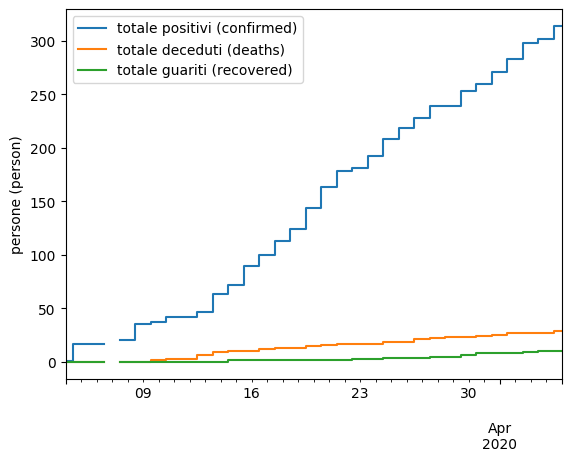
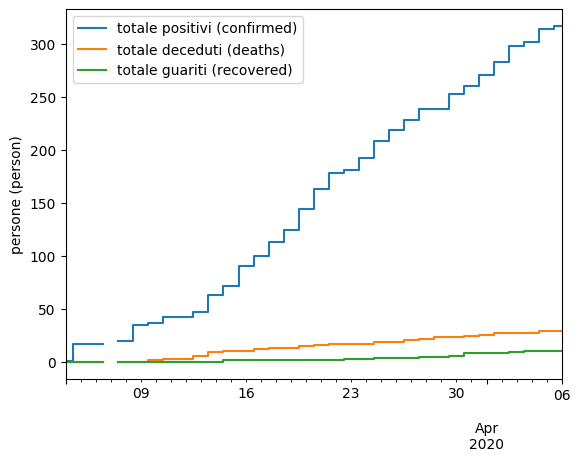
Update with data from April the 6th

diff --git a/COVID-19/bollettino.html b/COVID-19/bollettino.html
@@ -19,10 +19,10 @@
     <link href="https://www.ausl.imola.bo.it/flex/TemplatesUSR/assets/font-awesome-4.7.0/css/font-awesome.min.css" rel="stylesheet">
     <link href="https://www.ausl.imola.bo.it/flex/TemplatesUSR/assets/fancybox-master/dist/jquery.fancybox.min.css" rel="stylesheet">
 
-    <link rel='stylesheet' type='text/css' media='screen' href='https://www.ausl.imola.bo.it/flex/cm/pages/ServeCSS.php/L/IT/N/normalize.css/M/-/BF/-/BV/-1?uyjvTb' />
-	<link rel='stylesheet' type='text/css' media='screen' href='https://www.ausl.imola.bo.it/flex/cm/pages/ServeCSS.php/L/IT/N/flex.css/M/-/BF/-/BV/-1?uyjvTb' />
+    <link rel='stylesheet' type='text/css' media='screen' href='https://www.ausl.imola.bo.it/flex/cm/pages/ServeCSS.php/L/IT/N/normalize.css/M/-/BF/-/BV/-1?mHFvTb' />
+	<link rel='stylesheet' type='text/css' media='screen' href='https://www.ausl.imola.bo.it/flex/cm/pages/ServeCSS.php/L/IT/N/flex.css/M/-/BF/-/BV/-1?lHFvTb' />
     <link href='https://www.ausl.imola.bo.it/flex/TemplatesUSR/assets/css/wheelmenu.css' rel='stylesheet'>
-    <link rel="stylesheet" type="text/css" media="print" href='https://www.ausl.imola.bo.it/flex/cm/pages/ServeCSS.php/L/IT/N/print.css/M/-/BF/-/BV/-1?wlvuTb' />
+    <link rel="stylesheet" type="text/css" media="print" href='https://www.ausl.imola.bo.it/flex/cm/pages/ServeCSS.php/L/IT/N/print.css/M/-/BF/-/BV/-1?hDyvTb' />
 
 	<!-- HTML5 Shim and Respond.js IE8 support of HTML5 elements and media queries -->
 	<!-- WARNING: Respond.js doesn't work if you view the page via file:// -->
@@ -75,13 +75,13 @@
 <meta property="og:type" content="article" />
 <meta property="og:url" content="https://www.ausl.imola.bo.it/flex/cm/pages/ServeBLOB.php/L/IT/IDPagina/10010" />
 <meta property="og:site_name" content="www.ausl.imola.bo.it" />
-<meta property="og:description" content="Nessun decesso e solo 4 nuovi casi positivi. In calo anche i ricoveri ospedalieri. Raggiungono quasi il centinaio le persone in cura al domicilio.&amp;nbsp;" />
+<meta property="og:description" content="Tre nuovi casi positivi al Covid-19. Il totale sale a 317. Nessun decesso nella giornata di oggi." />
 <meta property="og:image" content="https://www.ausl.imola.bo.it/flex/images/1/f/b/D.0f26852e5331bd3d350b/aggiornamenti_locali.jpg" />
 <meta name="twitter:card" content="summary" />
 <meta name="twitter:site" content="www.ausl.imola.bo.it" />
 <meta name="twitter:creator" content="FlexCMP" />
 <meta name="twitter:title" content="AGGIORNAMENTI LOCALI COVID" />
-<meta name="twitter:description" content="Nessun decesso e solo 4 nuovi casi positivi. In calo anche i ricoveri ospedalieri. Raggiungono quasi il centinaio le persone in cura al domicilio.&amp;nbsp;" />
+<meta name="twitter:description" content="Tre nuovi casi positivi al Covid-19. Il totale sale a 317. Nessun decesso nella giornata di oggi." />
 <meta name="twitter:image:src" content="https://www.ausl.imola.bo.it/flex/images/1/f/b/D.0f26852e5331bd3d350b/aggiornamenti_locali.jpg" />
 
 </head>
@@ -365,7 +365,7 @@
 </li>
 <li><a href='https://www.ausl.imola.bo.it/Vaccinazioni-Infanzia' title='' ><span>Vaccinazioni Infanzia</span></a>
 </li>
-<li><a href='https://www.ausl.imola.bo.it/flex/cm/pages/ServeBLOB.php/L/IT/IDPagina/7452' title='' ><span>#diciamoNo alla Violenza contro le donne</span></a>
+<li><a href='https://www.ausl.imola.bo.it/flex/cm/pages/ServeBLOB.php/L/IT/IDPagina/7452' title='' ><span>#diciamoNo alla Violenza contro le donne - CENTRI ANTIVIOLENZA restano APERTI</span></a>
 </li>
 </ul>
 
@@ -788,7 +788,7 @@
 	<li><a href="https://www.ausl.imola.bo.it/flex/cm/pages/ServeBLOB.php/L/IT/IDPagina/5/YY/2020">2020</a> <span class="divider">/</span></li>
 	
 	
-	<li><a href="https://www.ausl.imola.bo.it/flex/cm/pages/ServeBLOB.php/L/IT/IDPagina/5/YY/2020/MM/3">Marzo</a> <span class="divider">/</span></li>
+	<li><a href="https://www.ausl.imola.bo.it/flex/cm/pages/ServeBLOB.php/L/IT/IDPagina/5/YY/2020/MM/4">Aprile</a> <span class="divider">/</span></li>
 	
 	
 	<li class="active">AGGIORNAMENTI LOCALI COVID</li>
@@ -877,16 +877,18 @@
 </div>
                             
 <!-- Begin BLOB Content -->
-<div class='BLOBAlignLeft'><a href='https://www.ausl.imola.bo.it/flex/cm/pages/ServeBLOB.php/L/IT/IDPagina/9991' class='viewLink viewLinkIMG'  title='A QUESTO LINK AGGIORNAMENTI QUOTIDIANI SULLA SITUAZIONE IN EMILIA ROMAGNA'><img id='img-1' src='https://www.ausl.imola.bo.it/flex/tmp/imgResized/T-5a7db39de4ec63b30baec261aaaa4dcc-90x90.png'  width="90" height="90" alt='' />A QUESTO LINK AGGIORNAMENTI QUOTIDIANI SULLA SITUAZIONE IN EMILIA ROMAGNA</a><span class='BLOBHidden'>.</span></div><div><hr class='viewHR BLOBAlignLeft' /></div><h1 class="viewTitolo">AGGIORNAMENTI QUOTIDIANI SULL&#039;EPIDEMIA DI COVID-19 NEL TERRITORIO DEL CIRCONDARIO IMOLESE</h1><h2 class="viewSottotitolo">5 aprile </h2>
-<div class='viewPar BLOBAlignJustify'><p >Imola – Sono 12 più di&nbsp;<span class='Object'>ieri</span>&nbsp;le persone risultate positive al Coronavirus:&nbsp;6 residenti a Medicina, 3 ad Imola, 1 a Castel San Pietro Terme, 1 Mordano e 1 fuori territorio<br />Purtroppo&nbsp;<span class='Object'>oggi</span>&nbsp;sono due le famiglie che subiscono un lutto a Medicina. Sono deceduti un uomo e una donna rispettivamente di 77 e 75 anni.&nbsp;Salgono quindi a 314 i casi positivi refertati nel Circondario Imolese (compresi 8 guariti con doppio tampone negativo, 2 guariti clinicamente e 29 decessi così suddivisi: 23 a Medicina, 3 a Imola, 2 a Castel San Pietro Terme e 1 a Dozza)<br />Sono 189 gli uomini e 125 le donne; 159 residenti a Medicina, 94 a Imola, 30 a Castel San Pietro Terme, 6 a Dozza, 5 a Castel Guelfo, 5 a Mordano, 3 a Casalfiumanese, 3 a Borgo Tossignano e&nbsp;9 persone residenti fuori dal Circondario.<br />Tra i positivi 23 hanno 85 e più anni, 67 tra i 75 e gli 84 anni, 68 tra 65 e i 74 anni, 154 tra i 14 e i 64 anni (e più precisamente, analizzando ulteriormente il dato con le linee che utilizza solitamente il Ministero della Salute: 41 nella classe d’età 14-39 e 113&nbsp;tra i 40 e i 64)&nbsp;e 2 al di sotto dei 14 anni.&nbsp;<br />6 le persone ricoverate in semi-intesiva ECU,&nbsp;&nbsp;42 i ricoverati nel reparto Covid, 19 in post acuzie Covid all'Ospedale di Comunità di Castel San Pietro Terme e 3 alloggiati in albergo.&nbsp;Dall'ingresso del primo paziente Covid+ in Terapia Intensiva ad Imola, esattamente un mese fa, sono state 24 le persone che sono state ricoverate in questo reparto con COVID, di cui 9 quelli che sono ricoverati ad&nbsp;<span class='Object'>oggi</span>, 10 i trasferiti in altro reparto e 5 i deceduti.&nbsp;Le Unità speciali di continuità assistenziali a 9 giorni dal loro avvio hanno effettuato 465 triage telefonici, 187 visite domiciliari,&nbsp;121 terapie, 123 tamponi e 12&nbsp; ECG.&nbsp;Da lunedì ad&nbsp;<span class='Object'>oggi</span>&nbsp;sono stati sottoposti a visita presso l'ambulatorio infettivologico 64 pazienti in terapia.</p></div>
+<div class='BLOBAlignLeft'><a href='https://www.ausl.imola.bo.it/flex/cm/pages/ServeBLOB.php/L/IT/IDPagina/9991' class='viewLink viewLinkIMG'  title='A QUESTO LINK AGGIORNAMENTI QUOTIDIANI SULLA SITUAZIONE IN EMILIA ROMAGNA'><img id='img-1' src='https://www.ausl.imola.bo.it/flex/tmp/imgResized/T-5a7db39de4ec63b30baec261aaaa4dcc-90x90.png'  width="90" height="90" alt='' />A QUESTO LINK AGGIORNAMENTI QUOTIDIANI SULLA SITUAZIONE IN EMILIA ROMAGNA</a><span class='BLOBHidden'>.</span></div><div><hr class='viewHR BLOBAlignLeft' /></div><h1 class="viewTitolo">AGGIORNAMENTI QUOTIDIANI SULL&#039;EPIDEMIA DI COVID-19 NEL TERRITORIO DEL CIRCONDARIO IMOLESE</h1><h2 class="viewSottotitolo">6 aprile</h2>
+<div class='viewPar BLOBAlignJustify'><p ><strong class='userFormat1'>Tre nuovi casi positivi al Covid-19. Il totale sale a 317. Nessun decesso nella giornata di oggi.</strong><br />Imola – Sono solo 3 più di ieri le persone risultate positive al Coronavirus: 1 residente a Medicina e 2 fuori dal territorio. Oggin on si registrano decessi.<br />Salgono quindi a 317 i casi positivi refertati nel Circondario Imolese (compresi 8 guariti con doppio tampone negativo, 2 guariti clinicamente e 29 decessi così suddivisi: 23 a Medicina, 3 a Imola, 2 a Castel San Pietro Terme e 1 a Dozza)<br />Sono 190 gli uomini e 127 le donne; 160 residenti a Medicina, 94 a Imola, 30 a Castel San Pietro Terme, 6 a Dozza, 5 a Castel Guelfo, 5 a Mordano, 3 a Casalfiumanese, 3 a Borgo Tossignano e 11 persone residenti fuori dal Circondario.<br />Tra i positivi 23 hanno 85 e più anni, 68 tra i 75 e gli 84 anni, 70 tra 65 e i 74 anni, 154 tra i 14 e i 64 anni (e più precisamente, analizzando ulteriormente il dato con le linee che utilizza solitamente il Ministero della Salute: 41 nella classe d’età 14-39 e 113 tra i 40 e i 64) e 2 al di sotto dei 14 anni.<br />Resta stabile la situazione in Ospedale. Sono 39 gli accessi in Pronto Soccorso nelle 24 ore ma solo 5 i ricoveri riferibili al Covid.<br />11 i ricoverati in Terapia Intensiva, 7 in semi-intesiva ECU, 45 nel reparto Covid, 19 in post acuzie Covid all'Ospedale di Comunità di Castel San Pietro Terme e 3 alloggiati in albergo. Da ogginel reparto internistico Covid sono partite le attività di riabilitazione respiratoria a cui sono stati dedicati 4 posti letto del 4° piano.<br />Le Unità speciali di continuità assistenziali a 10 giorni dal loro avvio hanno effettuato 490 triage telefonici, 203 visite domiciliari, 135 terapie, 136 tamponi e 14  ECG. Da lunedì ad  oggi sono stati sottoposti a visita presso l'ambulatorio infettivologico oltre 80 pazienti in terapia.<br /></p></div>
+<h2 class="viewSottotitolo">5 aprile </h2>
+<div class='viewPar BLOBAlignJustify'><p >Imola – Sono 12 più di  ieri le persone risultate positive al Coronavirus: 6 residenti a Medicina, 3 ad Imola, 1 a Castel San Pietro Terme, 1 Mordano e 1 fuori territorio<br />Purtroppo  oggi sono due le famiglie che subiscono un lutto a Medicina. Sono deceduti un uomo e una donna rispettivamente di 77 e 75 anni. Salgono quindi a 314 i casi positivi refertati nel Circondario Imolese (compresi 8 guariti con doppio tampone negativo, 2 guariti clinicamente e 29 decessi così suddivisi: 23 a Medicina, 3 a Imola, 2 a Castel San Pietro Terme e 1 a Dozza)<br />Sono 189 gli uomini e 125 le donne; 159 residenti a Medicina, 94 a Imola, 30 a Castel San Pietro Terme, 6 a Dozza, 5 a Castel Guelfo, 5 a Mordano, 3 a Casalfiumanese, 3 a Borgo Tossignano e 9 persone residenti fuori dal Circondario.<br />Tra i positivi 23 hanno 85 e più anni, 67 tra i 75 e gli 84 anni, 68 tra 65 e i 74 anni, 154 tra i 14 e i 64 anni (e più precisamente, analizzando ulteriormente il dato con le linee che utilizza solitamente il Ministero della Salute: 41 nella classe d’età 14-39 e 113 tra i 40 e i 64) e 2 al di sotto dei 14 anni. <br />6 le persone ricoverate in semi-intesiva ECU,  42 i ricoverati nel reparto Covid, 19 in post acuzie Covid all'Ospedale di Comunità di Castel San Pietro Terme e 3 alloggiati in albergo. Dall'ingresso del primo paziente Covid+ in Terapia Intensiva ad Imola, esattamente un mese fa, sono state 24 le persone che sono state ricoverate in questo reparto con COVID, di cui 9 quelli che sono ricoverati ad  oggi, 10 i trasferiti in altro reparto e 5 i deceduti. Le Unità speciali di continuità assistenziali a 9 giorni dal loro avvio hanno effettuato 465 triage telefonici, 187 visite domiciliari, 121 terapie, 123 tamponi e 12  ECG. Da lunedì ad  oggi sono stati sottoposti a visita presso l'ambulatorio infettivologico 64 pazienti in terapia.</p></div>
 <h2 class="viewSottotitolo">4 aprile </h2>
-<div class='viewPar BLOBAlignJustify'><p >Nessun decesso e una nuova guarigione nella giornata odierna: un cittadino medicinese che ha già un doppio referto negativo.Salgono quindi a 302 i casi positivi refertati nel Circondario Imolese (compresi 8 guariti con doppio tampone negativo, 2 guariti clinicamente e 27 decessi così suddivisi: 21 a Medicina, 3 a Imola, 2 a Castel San Pietro Terme e 1 a Dozza)<br />Sono 181 gli uomini e 121 le donne; 153 residenti a Medicina, 91 a Imola, 29 a Castel San Pietro Terme, 6 a Dozza, 5 a Castel Guelfo, 4 a Mordano, 3 a Casalfiumanese, 3 a Borgo Tossignano e&nbsp;8 persone residenti fuori dal Circondario.<br />Tra i positivi 22 hanno 85 e più anni, 67 tra i 75 e gli 84 anni, 66 tra 65 e i 74 anni, 147 tra i 14 e i 64 anni (e più precisamente, analizzando ulteriormente il dato con le linee che utilizza solitamente il Ministero della Salute: 38 nella classe d’età 14-39 e 109 tra i 40 e i 64).<br />Dalle 12 di ieri, 3 aprile, alle 12 di&nbsp;<span class='Object'>oggi</span>&nbsp;sono stati in totale 46 gli accessi in Pronto Soccorso, ma sono stati solo 6 i nuovi ricoveri relativi all'epidemia di Covid<br />6 anche le persone ricoverate in semi-intesiva ECU, 11 le persone Covid positive in Terapia Intensiva (1 persona è quindi uscita dall'intensiva per essere ricoverata in un reparto a minore intensità), 44 i ricoverati nel reparto Covid, 18 in post acuzie Covid all'Ospedale di Comunità di Castel San Pietro Terme e 2 alloggiati in albergo.<br />Le Unità speciali di continuità assistenziali ad 8 giorni dal loro avvio hanno triagiato telefonicamente 432 persone, visitato 164 persone, avviato 97 terapie, effettuato 104 tamponi ed 11 ECG.&nbsp;<br />Da lunedì ad&nbsp;<span class='Object'>oggi</span>&nbsp;sono stati sottoposti a visita presso l'ambulatorio infettivologico 64 pazienti in terapia.</p></div>
+<div class='viewPar BLOBAlignJustify'><p >Nessun decesso e una nuova guarigione nella giornata odierna: un cittadino medicinese che ha già un doppio referto negativo.Salgono quindi a 302 i casi positivi refertati nel Circondario Imolese (compresi 8 guariti con doppio tampone negativo, 2 guariti clinicamente e 27 decessi così suddivisi: 21 a Medicina, 3 a Imola, 2 a Castel San Pietro Terme e 1 a Dozza)<br />Sono 181 gli uomini e 121 le donne; 153 residenti a Medicina, 91 a Imola, 29 a Castel San Pietro Terme, 6 a Dozza, 5 a Castel Guelfo, 4 a Mordano, 3 a Casalfiumanese, 3 a Borgo Tossignano e 8 persone residenti fuori dal Circondario.<br />Tra i positivi 22 hanno 85 e più anni, 67 tra i 75 e gli 84 anni, 66 tra 65 e i 74 anni, 147 tra i 14 e i 64 anni (e più precisamente, analizzando ulteriormente il dato con le linee che utilizza solitamente il Ministero della Salute: 38 nella classe d’età 14-39 e 109 tra i 40 e i 64).<br />Dalle 12 di ieri, 3 aprile, alle 12 di  oggi sono stati in totale 46 gli accessi in Pronto Soccorso, ma sono stati solo 6 i nuovi ricoveri relativi all'epidemia di Covid<br />6 anche le persone ricoverate in semi-intesiva ECU, 11 le persone Covid positive in Terapia Intensiva (1 persona è quindi uscita dall'intensiva per essere ricoverata in un reparto a minore intensità), 44 i ricoverati nel reparto Covid, 18 in post acuzie Covid all'Ospedale di Comunità di Castel San Pietro Terme e 2 alloggiati in albergo.<br />Le Unità speciali di continuità assistenziali ad 8 giorni dal loro avvio hanno triagiato telefonicamente 432 persone, visitato 164 persone, avviato 97 terapie, effettuato 104 tamponi ed 11 ECG. <br />Da lunedì ad  oggi sono stati sottoposti a visita presso l'ambulatorio infettivologico 64 pazienti in terapia.</p></div>
 <h2 class="viewSottotitolo">3 aprile </h2>
 <div class='viewPar BLOBAlignJustify'><p >Imola – Sono 15 più di ieri le persone risultate positive al Coronavirus: 8 residenti a Imola, 2 a Medicina, 2 a Castel San Pietro, 2 a Dozza, 1 Castelguelfo.<br />Oggi registriamo due buone notizie: una guarigione con doppio tampone a Medicina e nessun decesso.<br />Salgono quindi a 298 i casi positivi refertati nel Circondario Imolese (compresi 7 guariti con doppio tampone negativo, 2 guariti clinicamente e 27 decessi così suddivisi: 21 a Medicina, 3 a Imola, 2 a Castel San Pietro e 1 a Dozza)<br />Sono 180 gli uomini e 118 le donne; 151 residenti a Medicina, 89 a Imola, 29 a Castel San Pietro Terme, 6 a Dozza, 5 a Castel Guelfo, 4 a Mordano, 3 a Casalfiumanese, 3 a Borgo Tossignano e 8 persone residenti fuori dal Circondario.<br />Tra i positivi 22 hanno 85 e più anni, 67 tra i 75 e gli 84 anni, 65 tra 65 e i 74 anni, 144 tra i 14 e i 64 anni (e più precisamente, analizzando ulteriormente il dato con le linee che utilizza solitamente il Ministero della Salute: 37 nella classe d’età 14-39 e 107 tra i 40 e i 64).<br />Dalle 12 di ieri, 1 aprile, alle 12 di oggi sono stati in totale 48 gli accessi in Pronto Soccorso.<br />Sono 8 le persone ricoverate in semi-intesiva ECU, 12 le persone Covid positive in Terapia Intensiva, 40 i ricoverati nel reparto Covid, 17 quelli ricoverati in post acuzie all'Ospedale di Comunità di Castel San Pietro Terme e 2 alloggiati in albergo. L'attività delle USCA alle 12 di oggi vedono 396 triage telefonici, 139 visite domiciliari, 80 terapie, 85 tamponi, 10 ECG. <br />Da lunedì ad oggi sono stati sottoposti a visita presso l'ambulatorio infettivologico 44 pazienti in terapia. <br /></p></div>
 <h2 class="viewSottotitolo">2 aprile </h2>
-<div class='viewPar BLOBAlignJustify'><p >Imola&nbsp;– Sono 12 più di&nbsp; ieri&nbsp;le persone risultate positive al Coronavirus: 6 residenti a Imola, 3 a Medicina, 2 a Borgo Tossignano, 1 a Mordano.&nbsp; Oggi&nbsp;siamo costretti a registrare due decessi. Si tratta di una cittadina di Medicina di 78 anni e un cittadino di Dozza di 73 anni già affetto da una severa patologia pregressa. Alle famiglie va il cordoglio dell'Azienda Usl di Imola.&nbsp;Salgono quindi a 283 i casi positivi refertati nel Circondario Imolese (compresi 6 guariti con doppio tampone negativo, 2 guariti clinicamente e 27 decessi)Si tratta di 175 uomini e 108 donne; 149 residenti a Medicina, 81 a Imola, 27 a Castel San Pietro Terme, 4 a Dozza, 4 a Castel Guelfo, 4 a Mordano, 3 a Casalfiumanese, 3 a Borgo Tossignano e 8 persone residenti fuori dal Circondario.&nbsp;Tra i positivi 22 hanno 85 e più anni, 63 tra i 75 e gli 84 anni, 65 tra 65 e i 74 anni, 133 tra i 14 e i 64 anni (e più precisamente, analizzando ulteriormente il dato con le linee che utilizza solitamente il Ministero della Salute: 35 nella classe d’età 14-39 e 98 tra i 40 e i 64).&nbsp;Dalle 12 di&nbsp; ieri, 1 aprile, alle 12 di&nbsp; oggi&nbsp;sono stati in totale 50 gli accessi in Pronto Soccorso.&nbsp;<br />Sono 6 le persone ricoverate in semi-intesiva ECU, 12 le persone Covid positive in Terapia Intensiva,&nbsp;37 i ricoverati nel reparto Covid, 15 quelli ricoverati in post acuzie all'Ospedale di Comunità di Castel San Pietro Terme e 2 alloggiati in albergo. La situazione in Ospedale è quindi sotto controllo, aumentano le dimissioni e rallentano i ricoveri, anche grazie agli ottimi risultati delle équipe territoriali, che in poco meno di una settimana hanno contattato telefonicamente 351 cittadini, ne hanno visitati 112 avviando la terapia in 62&nbsp;soggetti ed eseguendo 60 tamponi. 17 persone hanno già effettuato la successiva visita infettivologica, di cui due sono state ricoverate in via precauzionale. Non bisogna però abbassare la guardia, è assolutamente necessario continuare a mantenere isolamento e distanziamento sociale e chiamare il proprio medico di famiglia non appena si presentino sintomi suggestivi: febbre dai 38 gradi associata a tosse secca, stanchezza severa, raffreddore, difficoltà respiratorie e perdita di senso dell'olfatto e del gusto</p></div>
+<div class='viewPar BLOBAlignJustify'><p >Imola – Sono 12 più di  ieri le persone risultate positive al Coronavirus: 6 residenti a Imola, 3 a Medicina, 2 a Borgo Tossignano, 1 a Mordano.  Oggi siamo costretti a registrare due decessi. Si tratta di una cittadina di Medicina di 78 anni e un cittadino di Dozza di 73 anni già affetto da una severa patologia pregressa. Alle famiglie va il cordoglio dell'Azienda Usl di Imola. Salgono quindi a 283 i casi positivi refertati nel Circondario Imolese (compresi 6 guariti con doppio tampone negativo, 2 guariti clinicamente e 27 decessi)Si tratta di 175 uomini e 108 donne; 149 residenti a Medicina, 81 a Imola, 27 a Castel San Pietro Terme, 4 a Dozza, 4 a Castel Guelfo, 4 a Mordano, 3 a Casalfiumanese, 3 a Borgo Tossignano e 8 persone residenti fuori dal Circondario. Tra i positivi 22 hanno 85 e più anni, 63 tra i 75 e gli 84 anni, 65 tra 65 e i 74 anni, 133 tra i 14 e i 64 anni (e più precisamente, analizzando ulteriormente il dato con le linee che utilizza solitamente il Ministero della Salute: 35 nella classe d’età 14-39 e 98 tra i 40 e i 64). Dalle 12 di  ieri, 1 aprile, alle 12 di  oggi sono stati in totale 50 gli accessi in Pronto Soccorso. <br />Sono 6 le persone ricoverate in semi-intesiva ECU, 12 le persone Covid positive in Terapia Intensiva, 37 i ricoverati nel reparto Covid, 15 quelli ricoverati in post acuzie all'Ospedale di Comunità di Castel San Pietro Terme e 2 alloggiati in albergo. La situazione in Ospedale è quindi sotto controllo, aumentano le dimissioni e rallentano i ricoveri, anche grazie agli ottimi risultati delle équipe territoriali, che in poco meno di una settimana hanno contattato telefonicamente 351 cittadini, ne hanno visitati 112 avviando la terapia in 62 soggetti ed eseguendo 60 tamponi. 17 persone hanno già effettuato la successiva visita infettivologica, di cui due sono state ricoverate in via precauzionale. Non bisogna però abbassare la guardia, è assolutamente necessario continuare a mantenere isolamento e distanziamento sociale e chiamare il proprio medico di famiglia non appena si presentino sintomi suggestivi: febbre dai 38 gradi associata a tosse secca, stanchezza severa, raffreddore, difficoltà respiratorie e perdita di senso dell'olfatto e del gusto</p></div>
 <h2 class="viewSottotitolo">1 aprile</h2>
-<div class='viewPar BLOBAlignJustify'><p ><strong class='userFormat1'>Imola</strong> – Sono 11 più di ieri le persone risultate positive al Coronavirus: 6 residenti a Imola, 3 a Castel San Pietro, 1 a&nbsp;Castel Guelfo, 1 residente fuori dal circondario.<br />Purtroppo anche oggisiamo costretti a portare il nostro cordoglio ad una famiglia di Medicina che ha perso prematuramente un proprio congiunto di 53 anni.<br /><br />Salgono quindi a 271 i casi positivi refertati nel Circondario Imolese (compresi 6 guariti con doppio tampone negativo, 2 guariti clinicamente e 25 decessi)<br />Si tratta di 168 uomini e 103 donne; 146 residenti a Medicina, 75 a Imola, 27 a Castel San Pietro Terme, 4 a Dozza, 4 a Castel Guelfo, 3 a Casalfiumanese, 3 a Mordano, 1 a Borgo Tossignano e 8 persone residenti fuori dal Circondario.<br /><br />Tra i positivi 21 hanno 85 e più anni, 62 tra i 75 e gli 84 anni, 65 tra 65 e i 74 anni, 123 tra i 14 e i 64 anni (e più precisamente, analizzando ulteriormente il dato con le linee che utilizza solitamente il Ministero della Salute: 34 nella classe d’età 14-39 e 89 tra i 40 e i 64).<br /><br />Dalle 12 di ieri, 31 marzo, alle 12 di oggi sono stati in totale 44 gli accessi in Pronto Soccorso.<br />Buona la situazione dei ricoveri in Ospedale: sono 6 le persone ricoverate nel nuovo reparto ECU, 11 le persone Covid positive in Terapia Intensiva (con la buona notizia di una dimissione dalla Terapia Intensiva verso il reparto Covid), 45 i ricoverati nel reparto Covid (contro i 51 di ieri) e 12 quelli ricoverati in post acuzie all'Ospedale di Comunità di Castel San Pietro Terme.<br /><br />Oggisono state 4 le équipe territoriali sul territorio. Nell'area di Castel San Pietro sono state fatte 29 chiamate di triage che hanno esitato in 8 visite con altrettanti tamponi e terapie farmacologiche attivate. A Medicina sono stati visitati 4 nuovi pazienti a cui è stato eseguito tampone ed avviata la terapia. Ad Imola-Vallata le 16 visite programmate, ancora in corso, hanno già portato all'esecuzione di 5 tamponi e all'attivazione di 5 terapie.<br />Nella giornata di ieri sono state effettuate ulteriori 5 visite di pazienti che hanno avviato la terapia a domicilio nelle 48 ore precedenti che hanno portato anche oggiad 1 ricovero precauzionale, mentre 4 persone sono tornate al domicilio per il proseguo della terapia. Ulteriori 7 pazienti sono stati visitati oggi.<br /></p></div>
+<div class='viewPar BLOBAlignJustify'><p ><strong class='userFormat1'>Imola</strong> – Sono 11 più di ieri le persone risultate positive al Coronavirus: 6 residenti a Imola, 3 a Castel San Pietro, 1 a Castel Guelfo, 1 residente fuori dal circondario.<br />Purtroppo anche oggisiamo costretti a portare il nostro cordoglio ad una famiglia di Medicina che ha perso prematuramente un proprio congiunto di 53 anni.<br /><br />Salgono quindi a 271 i casi positivi refertati nel Circondario Imolese (compresi 6 guariti con doppio tampone negativo, 2 guariti clinicamente e 25 decessi)<br />Si tratta di 168 uomini e 103 donne; 146 residenti a Medicina, 75 a Imola, 27 a Castel San Pietro Terme, 4 a Dozza, 4 a Castel Guelfo, 3 a Casalfiumanese, 3 a Mordano, 1 a Borgo Tossignano e 8 persone residenti fuori dal Circondario.<br /><br />Tra i positivi 21 hanno 85 e più anni, 62 tra i 75 e gli 84 anni, 65 tra 65 e i 74 anni, 123 tra i 14 e i 64 anni (e più precisamente, analizzando ulteriormente il dato con le linee che utilizza solitamente il Ministero della Salute: 34 nella classe d’età 14-39 e 89 tra i 40 e i 64).<br /><br />Dalle 12 di ieri, 31 marzo, alle 12 di oggi sono stati in totale 44 gli accessi in Pronto Soccorso.<br />Buona la situazione dei ricoveri in Ospedale: sono 6 le persone ricoverate nel nuovo reparto ECU, 11 le persone Covid positive in Terapia Intensiva (con la buona notizia di una dimissione dalla Terapia Intensiva verso il reparto Covid), 45 i ricoverati nel reparto Covid (contro i 51 di ieri) e 12 quelli ricoverati in post acuzie all'Ospedale di Comunità di Castel San Pietro Terme.<br /><br />Oggisono state 4 le équipe territoriali sul territorio. Nell'area di Castel San Pietro sono state fatte 29 chiamate di triage che hanno esitato in 8 visite con altrettanti tamponi e terapie farmacologiche attivate. A Medicina sono stati visitati 4 nuovi pazienti a cui è stato eseguito tampone ed avviata la terapia. Ad Imola-Vallata le 16 visite programmate, ancora in corso, hanno già portato all'esecuzione di 5 tamponi e all'attivazione di 5 terapie.<br />Nella giornata di ieri sono state effettuate ulteriori 5 visite di pazienti che hanno avviato la terapia a domicilio nelle 48 ore precedenti che hanno portato anche oggiad 1 ricovero precauzionale, mentre 4 persone sono tornate al domicilio per il proseguo della terapia. Ulteriori 7 pazienti sono stati visitati oggi.<br /></p></div>
 <div><hr class='viewHR BLOBAlignLeft' /></div><div class='BLOBAlignLeft viewLinkOnlyTextContainer'><a href='https://www.ausl.imola.bo.it/flex/cm/pages/ServeBLOB.php/L/IT/IDPagina/10045' class='viewLink'  title='Trovi qui gli aggiornamenti quotidiani sull&#039;emergenza COVID19 del mese di MARZO 2020'>Trovi qui gli aggiornamenti quotidiani sull'emergenza COVID19 del mese di MARZO 2020</a><span class='BLOBHidden'>.</span></div>
 <!-- End BLOB Content -->
 
@@ -953,7 +955,7 @@
 <li><a href='https://www.ausl.imola.bo.it/urp' title='Ufficio Relazione col Pubblico' ><img src='https://www.ausl.imola.bo.it/flex/images/1/4/e/D.104c945c723267dd3c70/Tavola_disegno_2_copia_2.png' alt='U.R.P' /><span>Ufficio Relazioni con il Pubblico</span></a></li>
 <li><a href='https://www.ausl.imola.bo.it/flex/cm/pages/ServeBLOB.php/L/IT/IDPagina/4361' title='' ><img src='https://www.ausl.imola.bo.it/flex/images/1/4/3/D.3c32c3fdfe1a6b13e06a/liberaprofessione_verde.png' alt='' /><span>Ufficio Stampa</span></a></li>
 <li><a href='https://www.ausl.imola.bo.it/Vaccinazioni-Infanzia' title='' ><img src='https://www.ausl.imola.bo.it/flex/images/1/2/e/D.e81e419dd30dae0b34fd/ICO_Vaccinazioni.png' alt='' /><span>Vaccinazioni Infanzia</span></a></li>
-<li><a href='https://www.ausl.imola.bo.it/flex/cm/pages/ServeBLOB.php/L/IT/IDPagina/7452' title='' ><img src='https://www.ausl.imola.bo.it/flex/images/1/8/8/D.aa0cc29c00c2c252c74b/ICO_Cuore.png' alt='' /><span>#diciamoNo alla Violenza contro le donne</span></a></li>
+<li><a href='https://www.ausl.imola.bo.it/flex/cm/pages/ServeBLOB.php/L/IT/IDPagina/7452' title='' ><img src='https://www.ausl.imola.bo.it/flex/images/1/8/8/D.aa0cc29c00c2c252c74b/ICO_Cuore.png' alt='' /><span>#diciamoNo alla Violenza contro le donne - CENTRI ANTIVIOLENZA restano APERTI</span></a></li>
 </ol>
 </li>
 </ol>
